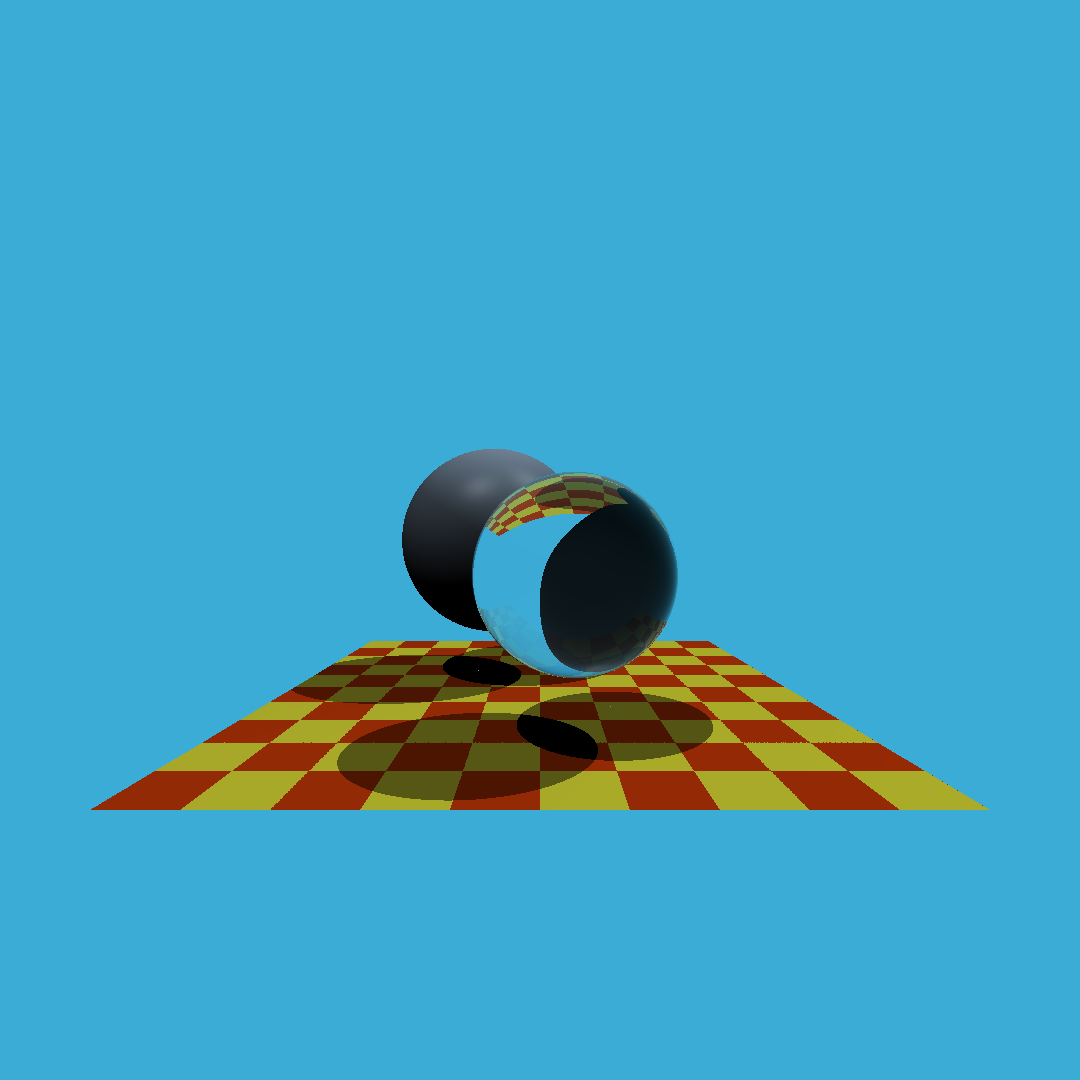
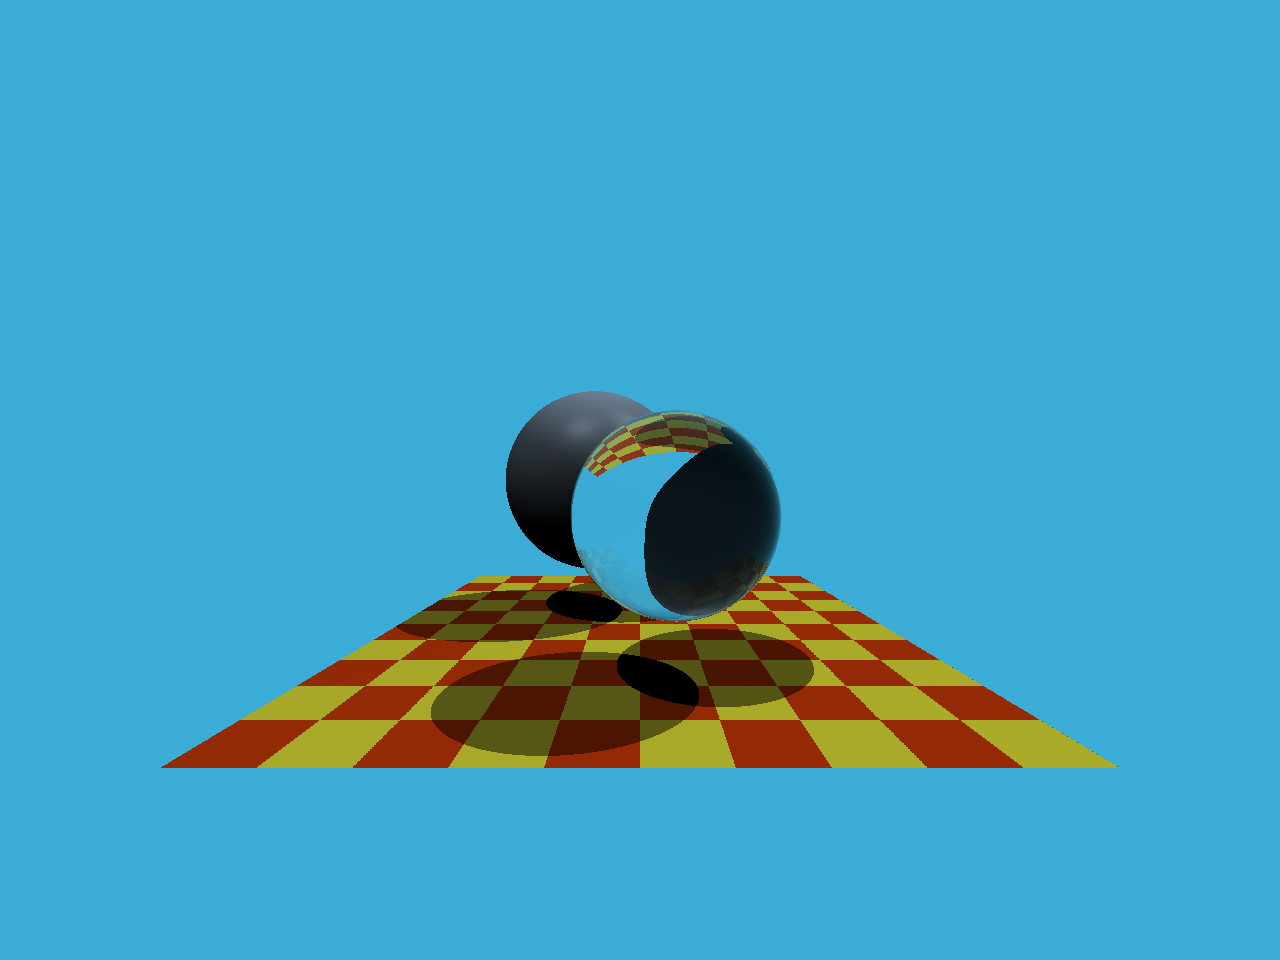
update README.md

Changed region(s): [[0.0917, 0.4062, 0.9167, 0.8125]]

diff --git a/README.md b/README.md
@@ -1,5 +1,5 @@
 # AnyaRenderer
-- ```AnyaRenderer``` 是一个迷你的软渲染器，目前实现了光栅化的功能，基于 C++20 开发。
+- ```AnyaRenderer``` 是一个迷你的软渲染器，目前实现了光栅化和 Whitted Style 风格的光线追踪的功能，基于 C++20 开发。
 - 实现了矩阵向量库，线性插值，z-buffer 深度检测， MSAA 抗锯齿等功能。
 
 ## Development Environment
